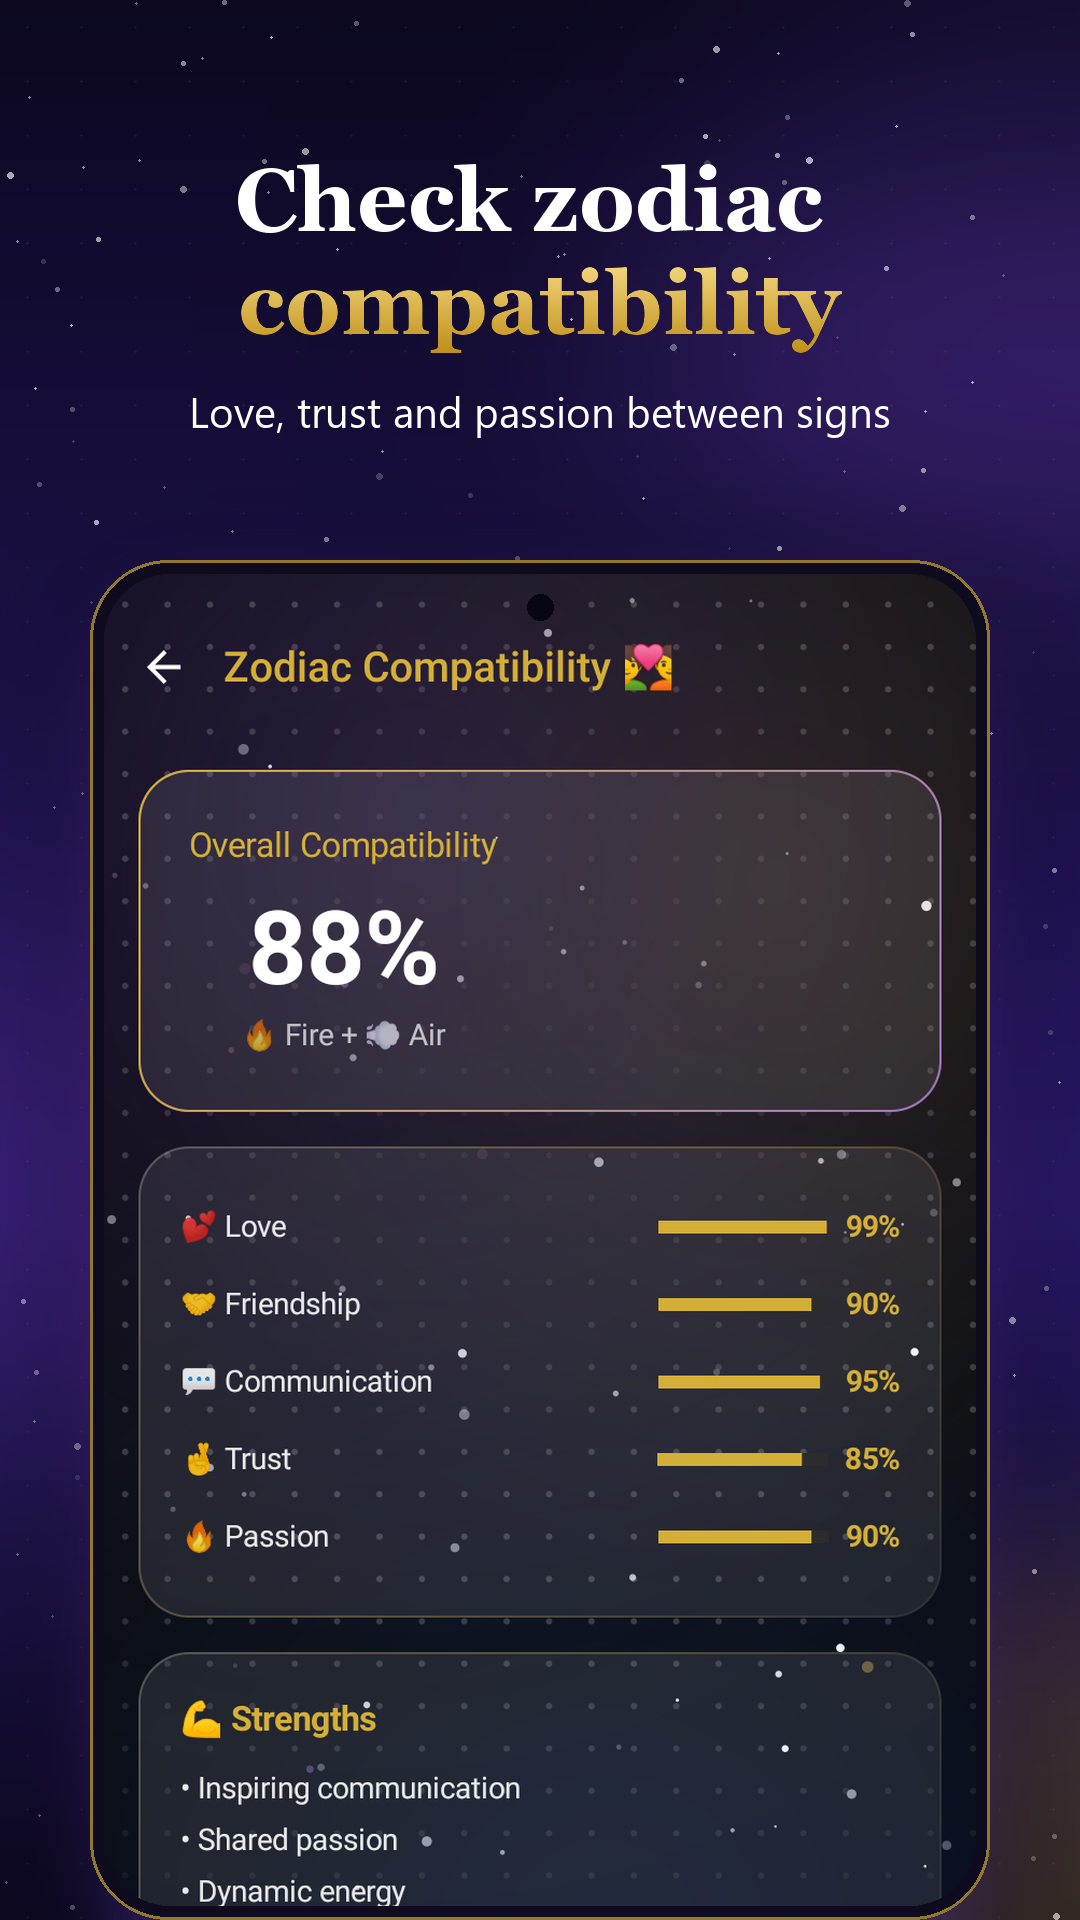
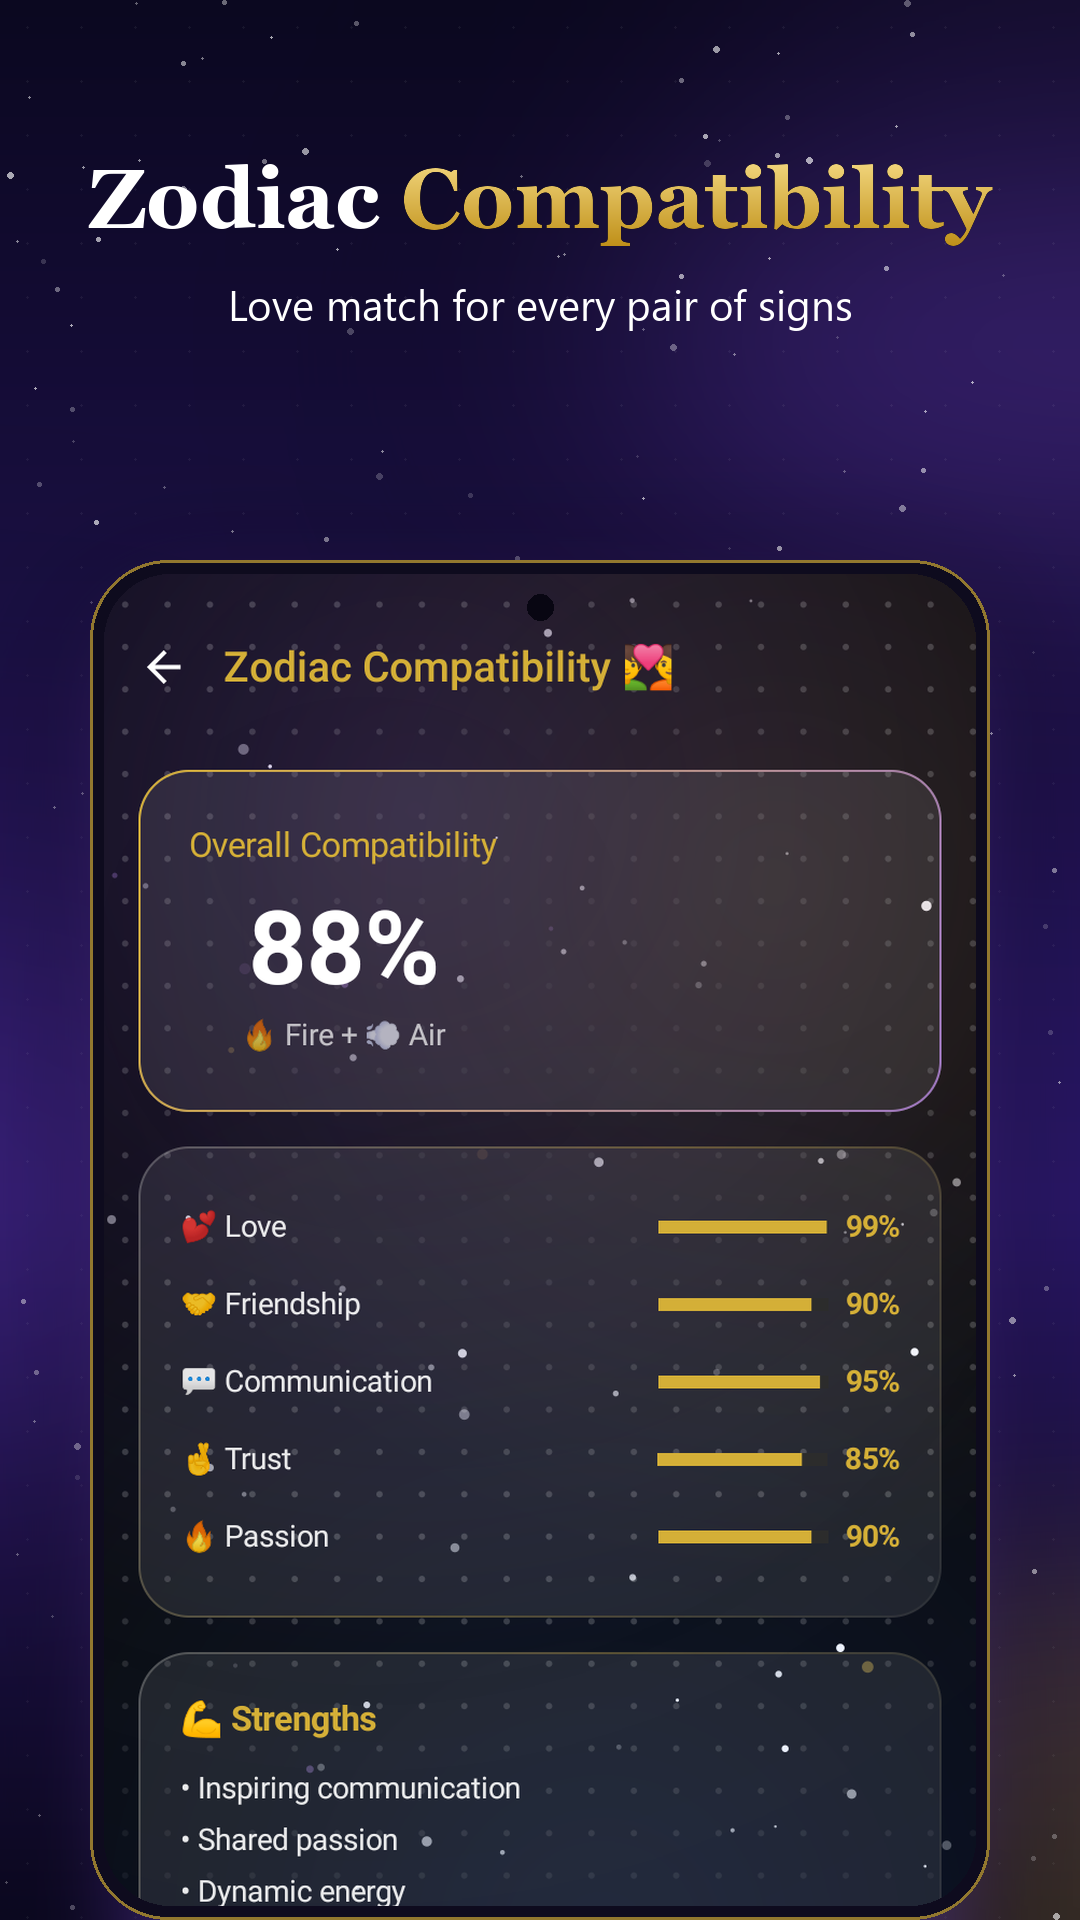
chore(release): versionCode 3 / 1.2.2; keyword-led store screenshots and feature graphic

Changed region(s): [[0.0917, 0.0625, 0.9167, 0.25]]

diff --git a/scripts/store-listing/compose_screenshots.py b/scripts/store-listing/compose_screenshots.py
@@ -15,6 +15,7 @@ import sys
 from PIL import Image, ImageChops, ImageDraw, ImageFilter, ImageFont
 
 RAW, OUT = sys.argv[1], sys.argv[2]
+BG_DIR = sys.argv[3] if len(sys.argv) > 3 else None  # optional AI-made art: <name>.png (1080x1920) and feature.png (1024x500)
 ICON = os.path.join(os.path.dirname(os.path.abspath(__file__)), "..", "..", "store-listing", "assets", "icon-512.png")
 os.makedirs(OUT, exist_ok=True)
 
@@ -28,14 +29,14 @@ GOLD, GOLD_HI = (212, 175, 55), (243, 215, 126)
 
 # (file, [(text, is_gold), ...] headline words, subline)
 SHOTS = [
-    ("home", [("Your ", 0), ("cosmic", 1), (" guide,", 0), (" every day", 0)], "Tarot, horoscope and dreams in one calm place", "violet-right"),
-    ("daily", [("Draw your ", 0), ("card", 1), (" of the day", 0)], "A fresh reading each morning", "gold-left"),
-    ("tarot", [("Let the ", 0), ("cards", 1), (" speak", 0)], "Draw a spread whenever you need a nudge", "violet-left"),
-    ("birth", [("Map your ", 0), ("birth chart", 1)], "Sun, Moon and Rising at a glance", "gold-right"),
-    ("compat", [("Check zodiac ", 0), ("compatibility", 1)], "Love, trust and passion between signs", "violet-right"),
-    ("dream", [("Decode your ", 0), ("dreams", 1)], "Search symbols and their meanings", "gold-left"),
-    ("oracle", [("Yes or no? ", 0), ("Ask the orb", 1)], "A quick nudge when you need one", "violet-left"),
-    ("fortune", [("Readings that ", 0), ("feel", 1), (" personal", 0)], "Pick your mood and focus", "gold-right"),
+    ("home", [("Daily ", 0), ("Horoscope", 1), (" Today", 0)], "Free horoscope for every zodiac sign", "violet-right"),
+    ("daily", [("Free Daily ", 0), ("Tarot Card", 1)], "Your card of the day for love and career", "gold-left"),
+    ("tarot", [("Tarot Card ", 0), ("Reading", 1)], "Draw a spread for love, career and more", "violet-left"),
+    ("birth", [("Free ", 0), ("Birth Chart", 1), (" Calculator", 0)], "Find your Sun, Moon and Rising sign", "gold-right"),
+    ("compat", [("Zodiac ", 0), ("Compatibility", 1)], "Love match for every pair of signs", "violet-right"),
+    ("dream", [("Dream ", 0), ("Meanings", 1)], "Search symbols in the dream dictionary", "gold-left"),
+    ("oracle", [("Yes or No ", 0), ("Oracle", 1)], "A quick answer for any question", "violet-left"),
+    ("fortune", [("Free ", 0), ("Fortune Telling", 1)], "Coffee, tarot, horoscope and more", "gold-right"),
 ]
 
 
@@ -186,6 +187,24 @@ def with_shadow(canvas, ph, pos, glow=(91, 53, 166), blur=60, alpha=150):
     canvas.alpha_composite(ph, pos)
 
 
+def art_background(name, w, h):
+    """Optional AI background art; falls back to the generated one. Top is darkened so the headline stays readable."""
+    if not BG_DIR:
+        return None
+    path = os.path.join(BG_DIR, name + ".png")
+    if not os.path.exists(path):
+        return None
+    im = Image.open(path).convert("RGB")
+    k = max(w / im.width, h / im.height)
+    im = im.resize((int(im.width * k), int(im.height * k)), Image.LANCZOS)
+    im = im.crop(((im.width - w) // 2, (im.height - h) // 2, (im.width - w) // 2 + w, (im.height - h) // 2 + h))
+    shade = Image.new("L", (w, h))
+    sd = ImageDraw.Draw(shade)
+    for y in range(h):
+        sd.line([(0, y), (w, y)], fill=int(150 * max(0, 1 - y / (h * 0.3))))
+    return Image.composite(Image.new("RGB", (w, h), INDIGO), im, shade)
+
+
 def build_phone_shots():
     for i, (name, words, sub, mood) in enumerate(SHOTS, 1):
         path = os.path.join(RAW, f"{name}.png")
@@ -193,7 +212,7 @@ def build_phone_shots():
             print("missing", path)
             continue
         W, H = 1080, 1920
-        canvas = background(W, H, mood, seed=i).convert("RGBA")
+        canvas = (art_background(name, W, H) or background(W, H, mood, seed=i)).convert("RGBA")
         y_end = draw_headline(canvas, words, 150, W - 160)
         d = ImageDraw.Draw(canvas)
         sf = font(SANS, 42)
@@ -209,7 +228,7 @@ def build_phone_shots():
 
 def build_feature_graphic():
     W, H = 1024, 500
-    canvas = background(W, H, "violet-right", seed=99).convert("RGBA")
+    canvas = (art_background("feature", W, H) or background(W, H, "violet-right", seed=99)).convert("RGBA")
     d = ImageDraw.Draw(canvas)
 
     icon = Image.open(ICON).convert("RGBA").resize((150, 150), Image.LANCZOS)
@@ -219,7 +238,7 @@ def build_feature_graphic():
     gt, bb = gold_gradient_text("Luna", lf)
     canvas.paste(gt, (240, 104 - bb[1] + 22), gt)
     tf = font(SANS, 33)
-    d.text((72, 300), "Tarot, horoscope & dreams", font=tf, fill=(255, 255, 255, 235))
+    d.text((72, 300), "Tarot, horoscope & birth chart", font=tf, fill=(255, 255, 255, 235))
     d.text((72, 348), "Your daily cosmic guide", font=font(SANS, 26), fill=GOLD_HI + (230,))
 
     for k, (name, ang, x, y, wd) in enumerate([("daily", 8, 690, 40, 210), ("home", -7, 820, 90, 210)]):
